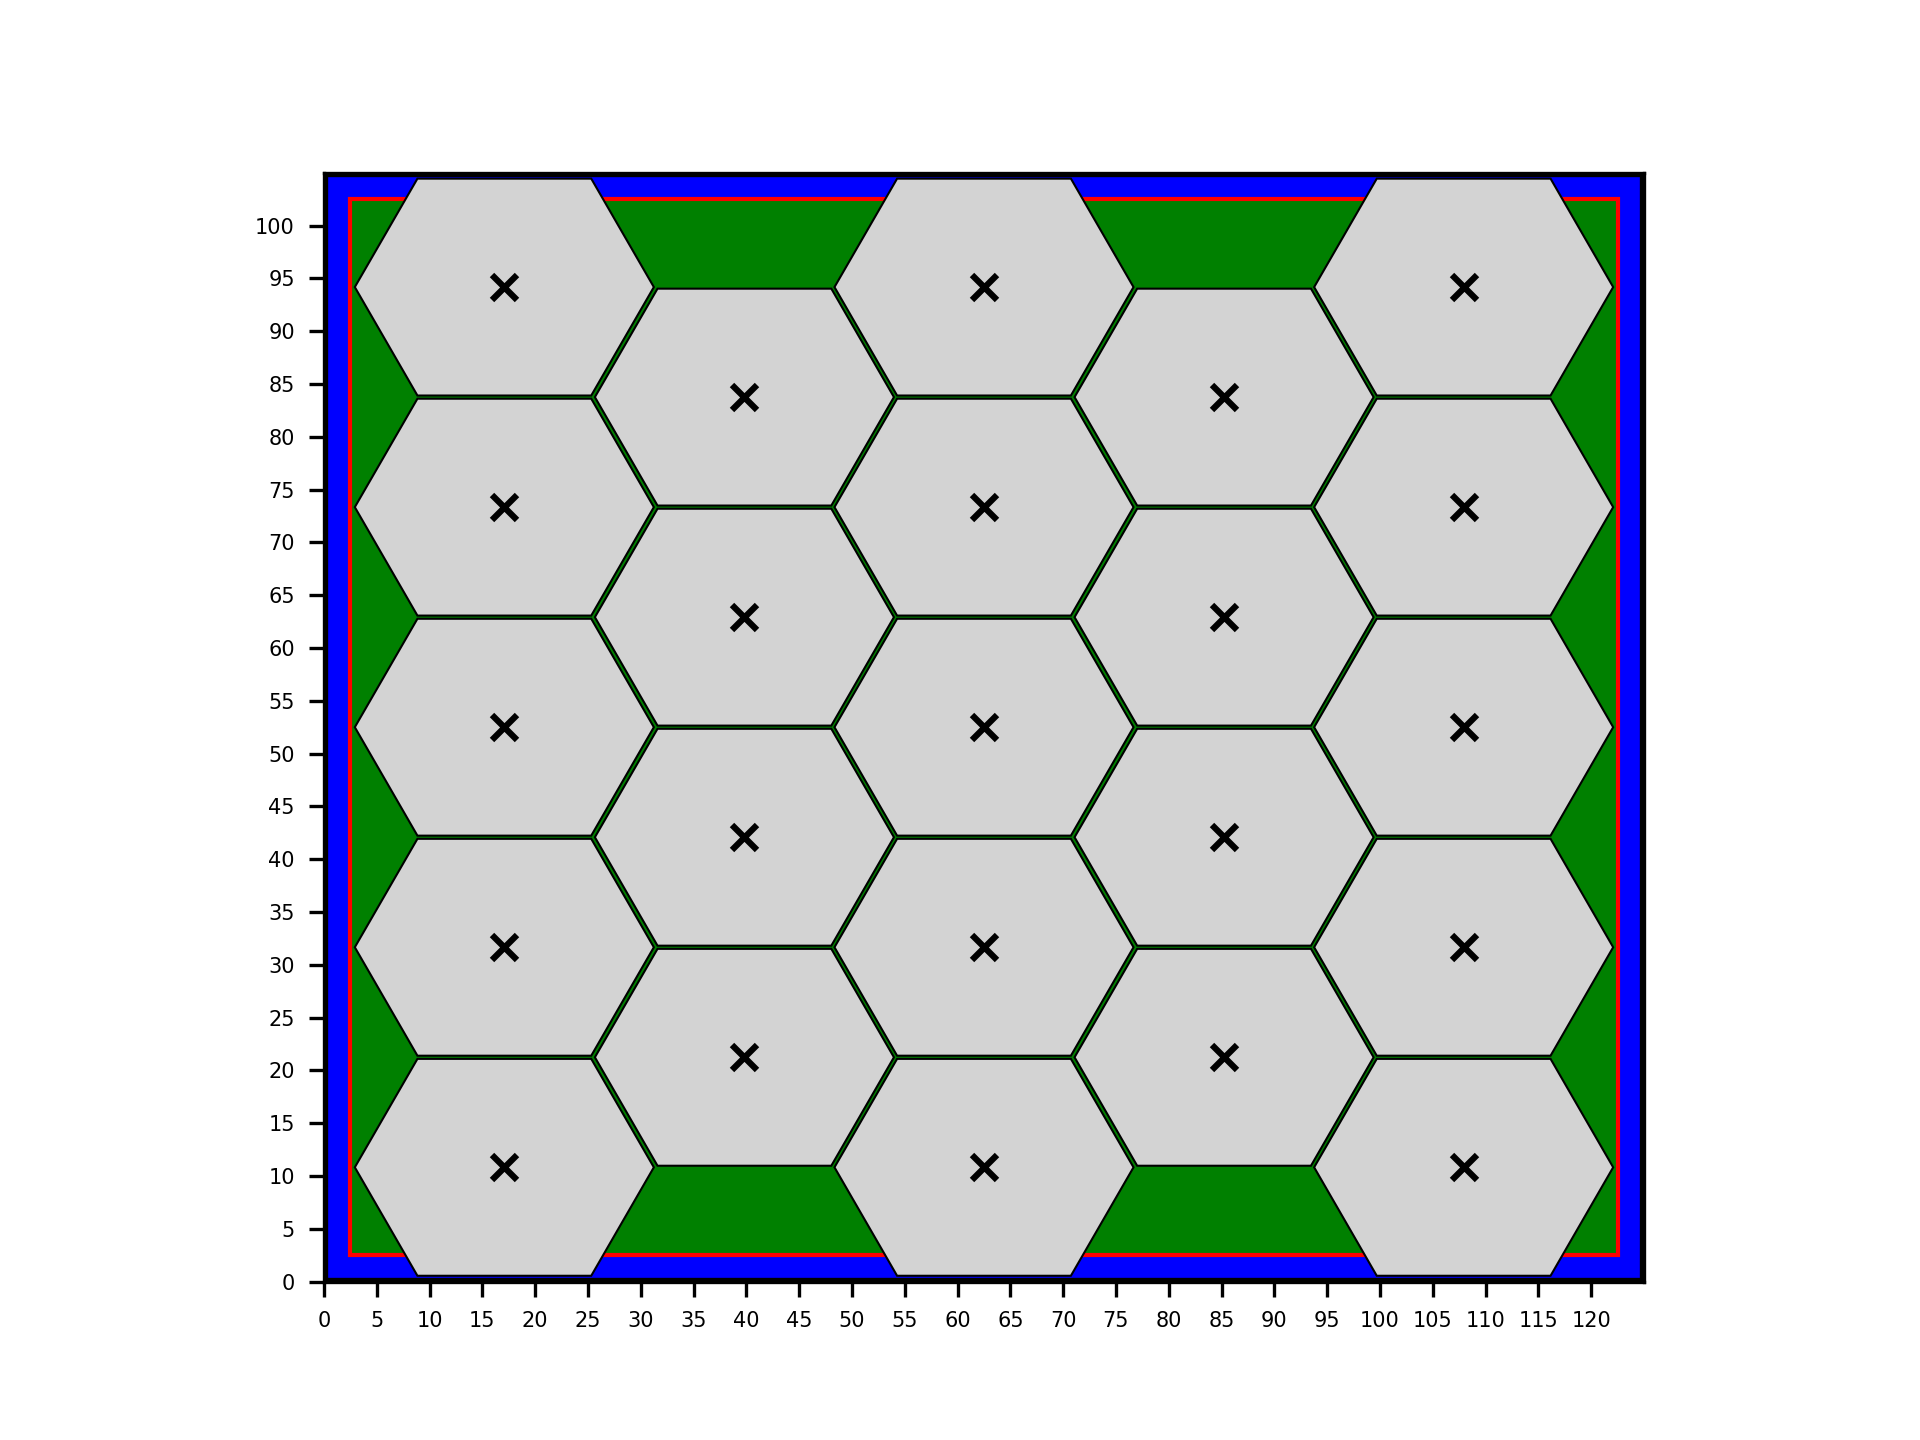
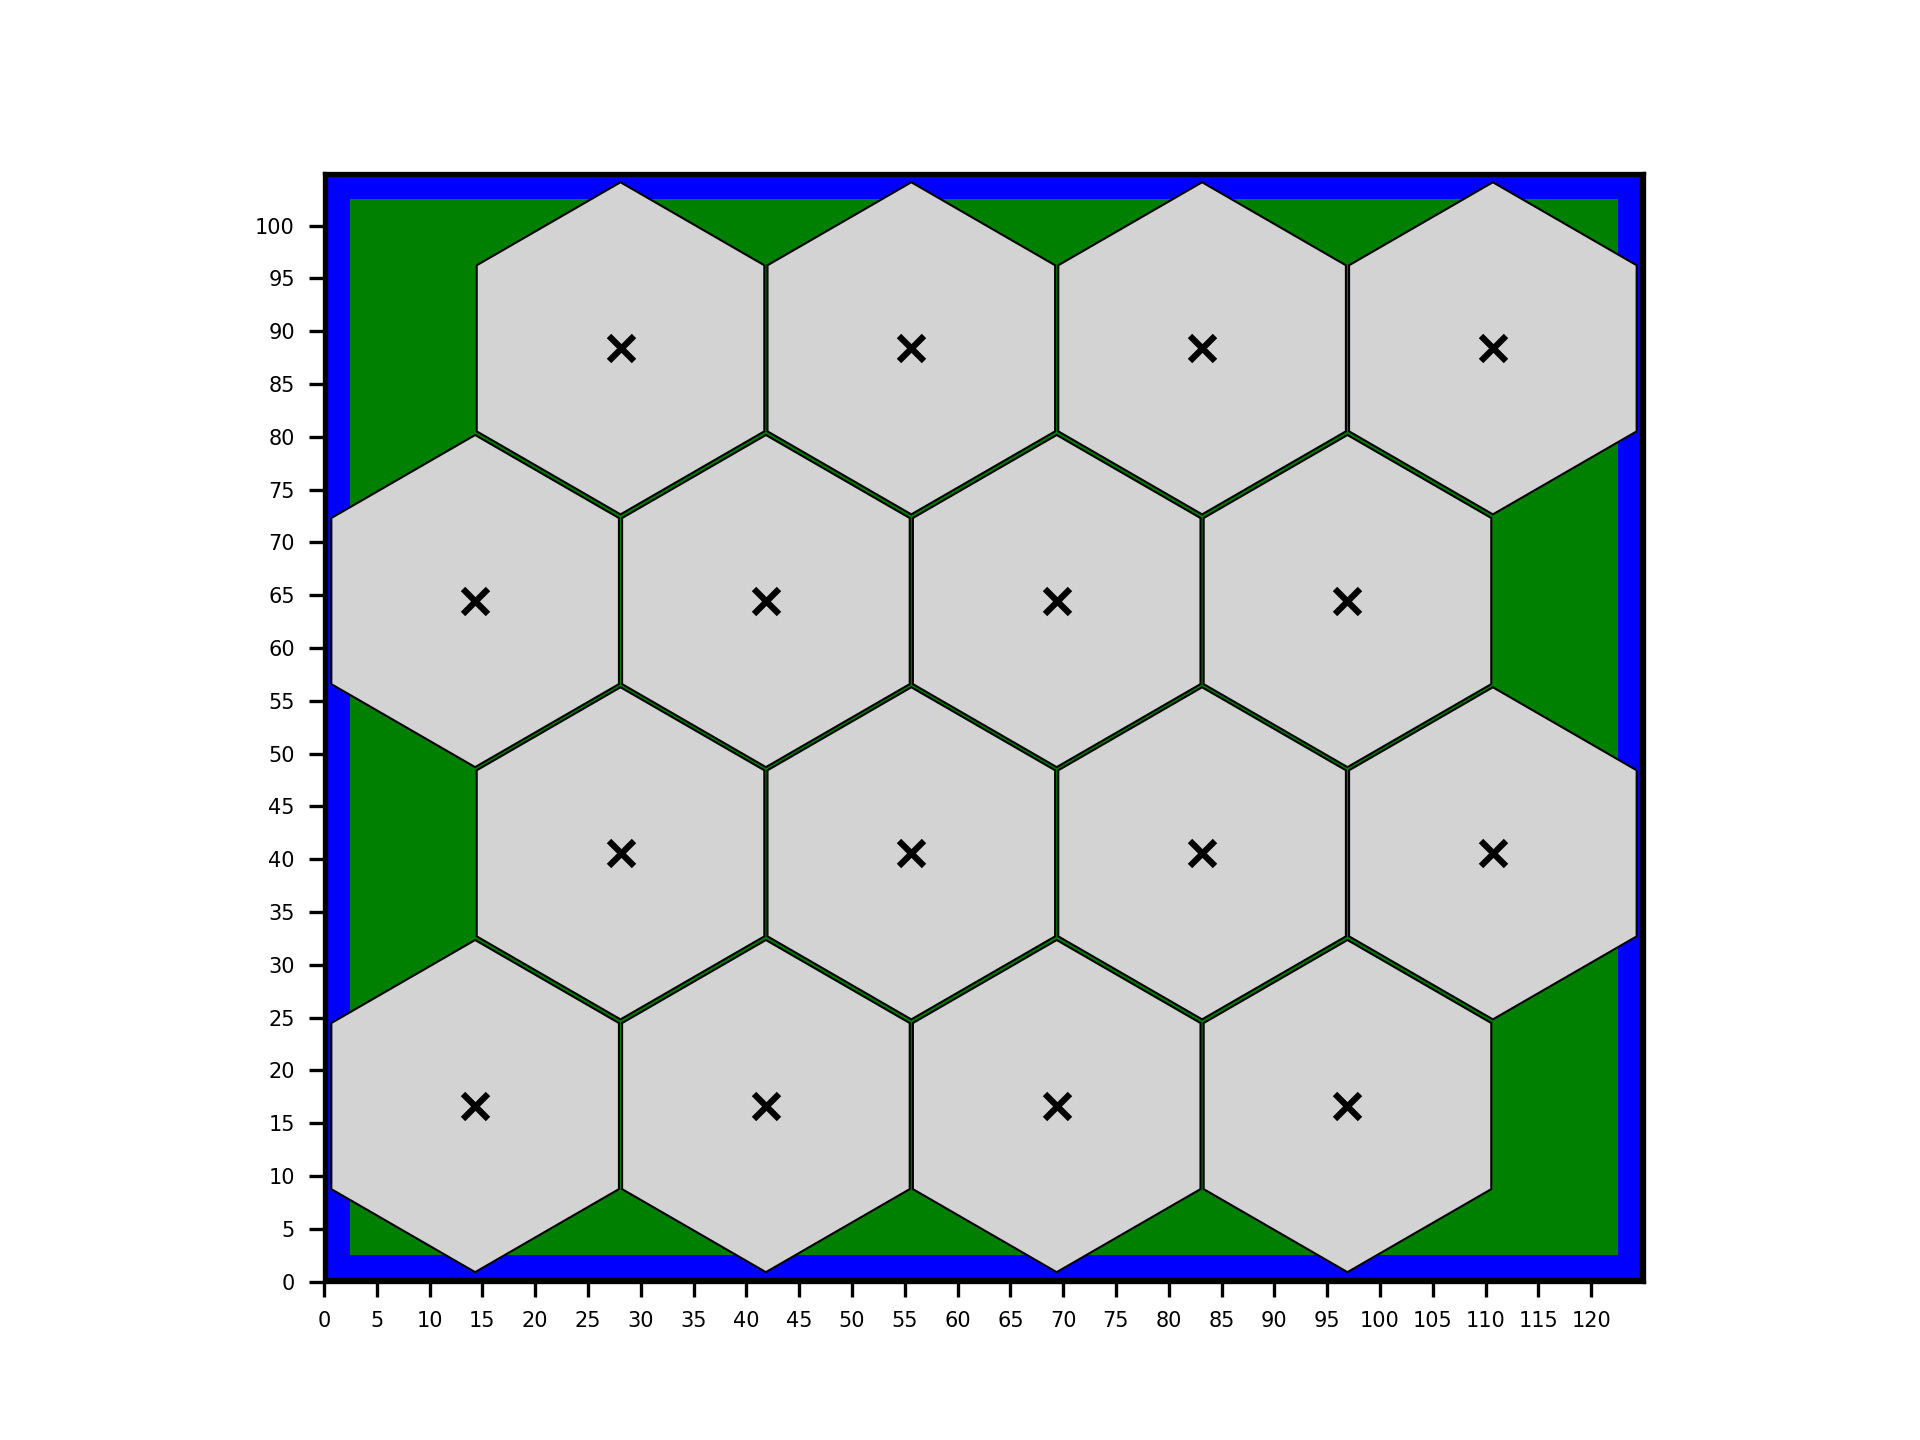
updates

diff --git a/GUI_main.py b/GUI_main.py
@@ -55,13 +55,13 @@ class App:
         console_log.config(state="normal")
         console_log.insert(tk.END, log_msg)
         console_log.config(state="disabled")
-        self.save_on_csv_hex(best_hex)
+        self.save_on_csv_hex(best_hex, "")
         draw_hexs(best_hex, False)
 
         return max_found
     
-    def save_on_csv_hex(self, hexagons):
-        with open('coordinate_esagoni.csv', 'w', newline='') as csvfile:
+    def save_on_csv_hex(self, hexagons, actual):
+        with open('coordinate_esagoni' + actual + '.csv', 'w', newline='') as csvfile:
             writer = csv.writer(csvfile, delimiter=',')
             writer.writerow(['x', 'y'])
 
@@ -139,6 +139,7 @@ class App:
         console_log.insert(tk.END, log_msg)
         console_log.config(state="disabled")
         draw_hexs(hexagons, True)
+        self.save_on_csv_hex(hexagons, "_attuale")
         return single*total
 
     def __init__(self, master):
@@ -208,7 +209,7 @@ class App:
         except ValueError:
             return False
         
-    def show_images(self, image_path_1, image_path_2, image_path_3, max_size=(480, 400)):
+    def show_images(self, image_path_1, image_path_2, image_path_3, max_size=(600, 500)):
         # Crea la finestra
         image_window = tk.Toplevel()
         

diff --git a/folder_1/Draw.py b/folder_1/Draw.py
@@ -15,7 +15,7 @@ def draw_hexagons(hexagons, isActual):
     # Add the rectangle to the axes
     ax.add_patch(rect)
     
-    rect_1 = Rectangle((2.5, 2.5), 120, 100, linewidth=1, edgecolor='red', facecolor='green')
+    rect_1 = Rectangle((2.5, 2.5), 120, 100, linewidth=1, facecolor='green')
 
     ax.add_patch(rect_1)
 

diff --git a/folder_2/Draw.py b/folder_2/Draw.py
@@ -17,7 +17,7 @@ def draw_rectangles(rectangles):
 
     # Set the limits of the axes
 
-    rect_1 = Rectangle((2.5, 2.5), 120, 100, linewidth=1, edgecolor='red', facecolor='green')
+    rect_1 = Rectangle((2.5, 2.5), 120, 100, linewidth=1, facecolor='green')
 
     ax.add_patch(rect_1)
 
